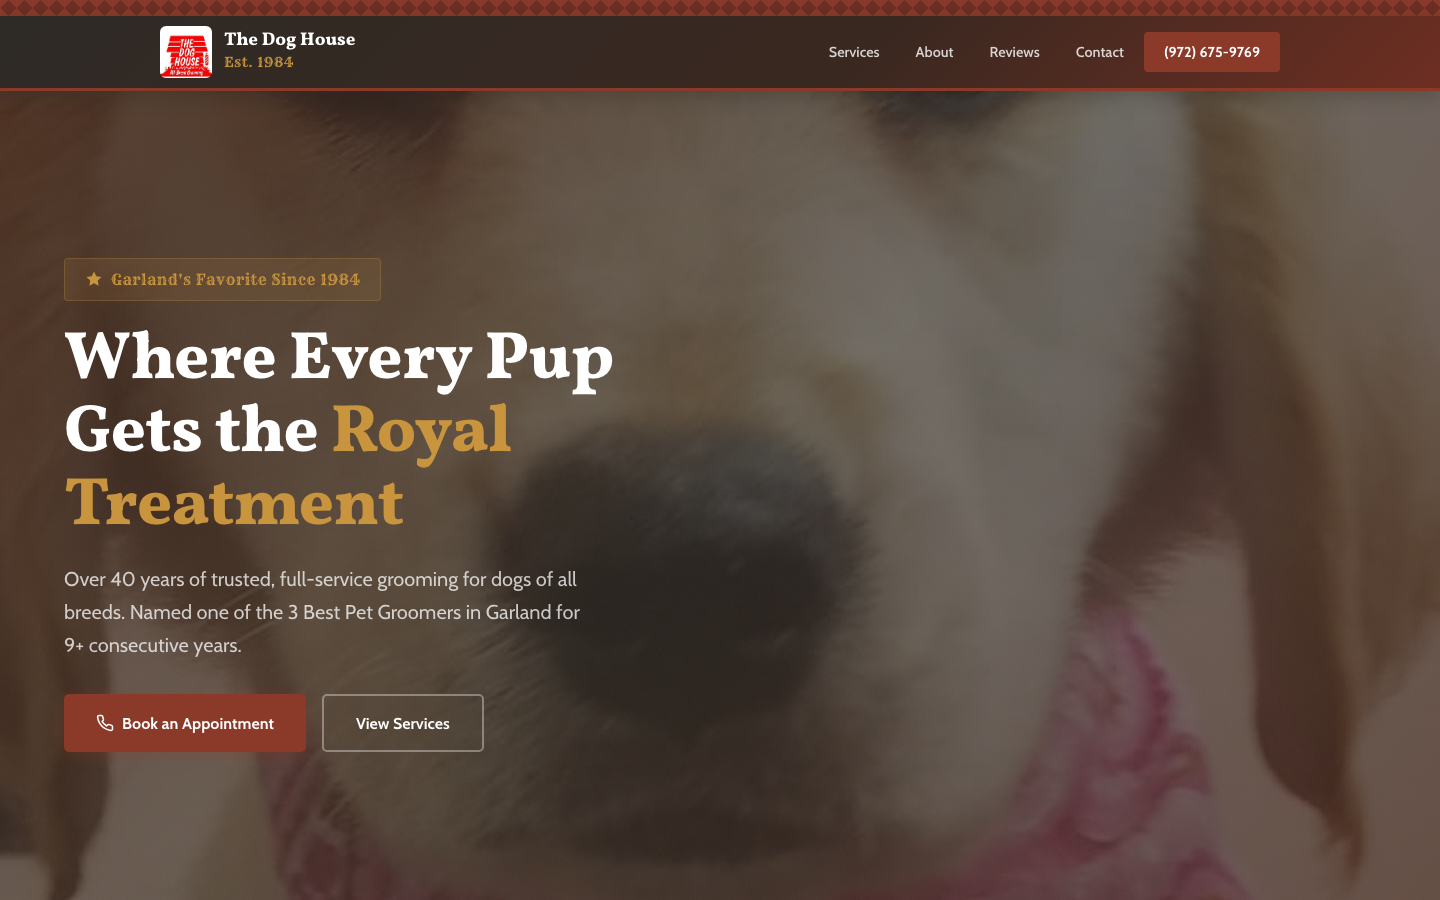
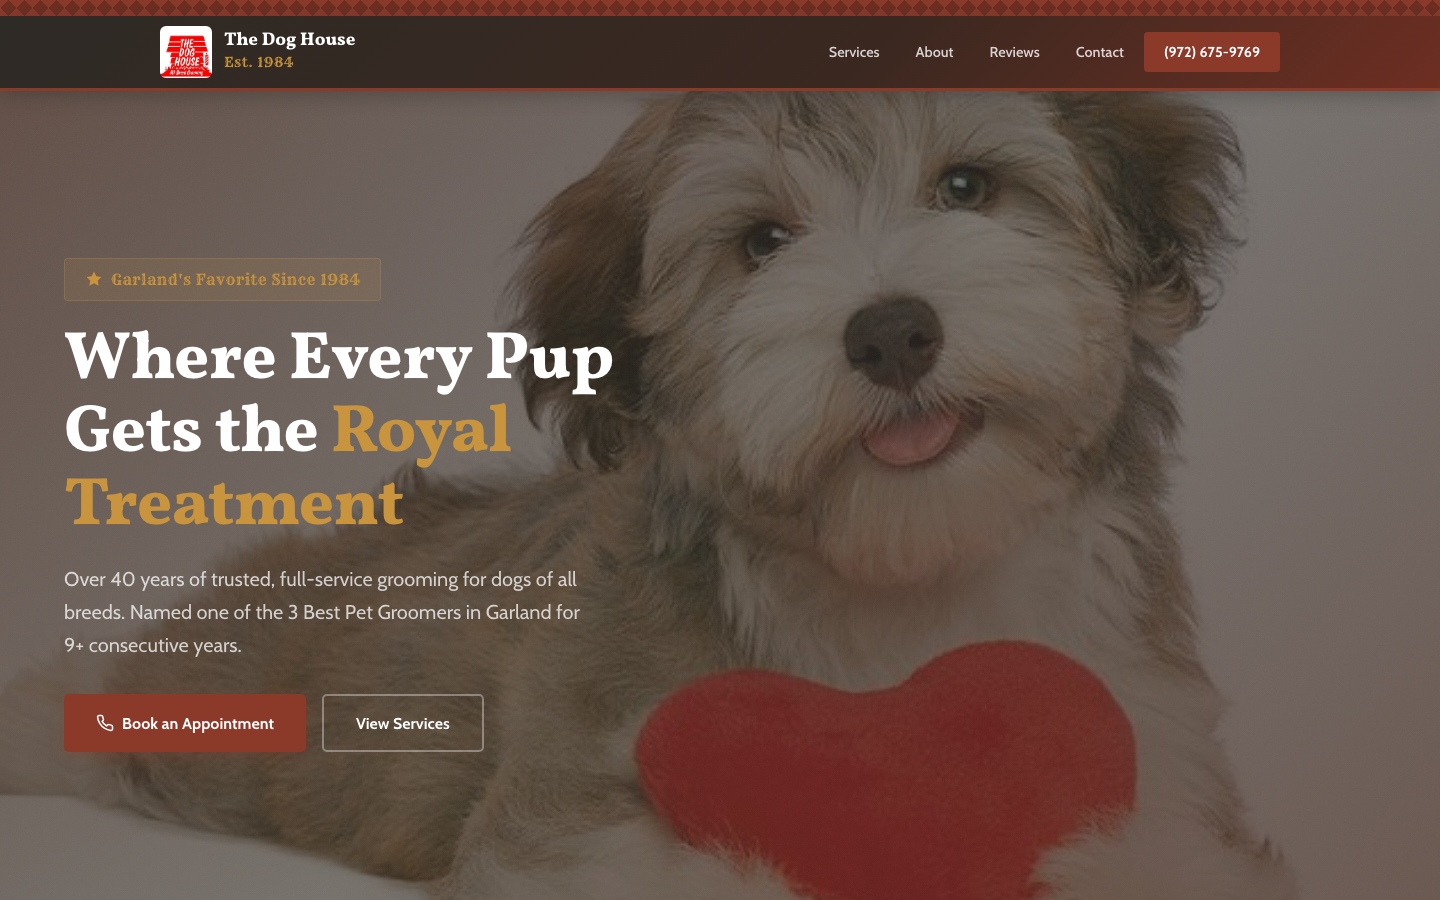
Swapped hero image to dog-with-heart for better landscape fill
The portrait dog01.jpg was too zoomed in as a full-bleed hero
background — only showing the dog's nose. Switched to the
landscape dog-with-heart.jpg which fills the hero properly
and shows the whole dog with the red heart.

diff --git a/docs/doghouse/barnwood-bandanas/index.html b/docs/doghouse/barnwood-bandanas/index.html
@@ -291,7 +291,7 @@
             width: 100%;
             height: 100%;
             object-fit: cover;
-            object-position: center 30%;
+            object-position: center;
         }
 
         /* Warm brown overlay — like looking through amber-tinted glass */
@@ -1468,7 +1468,7 @@
         <!-- ===== HERO ===== -->
         <section class="hero" aria-label="Welcome to The Dog House">
             <div class="hero__img">
-                <img src="../dog01.jpg" alt="Happy golden retriever puppy wearing a pink bandana, freshly groomed at The Dog House" width="1920" height="1080" loading="eager" fetchpriority="high">
+                <img src="../dog-with-heart.jpg" alt="Happy dog with a red heart at The Dog House grooming shop" width="1920" height="1080" loading="eager" fetchpriority="high">
             </div>
             <div class="hero__content">
                 <div class="hero__badge">
